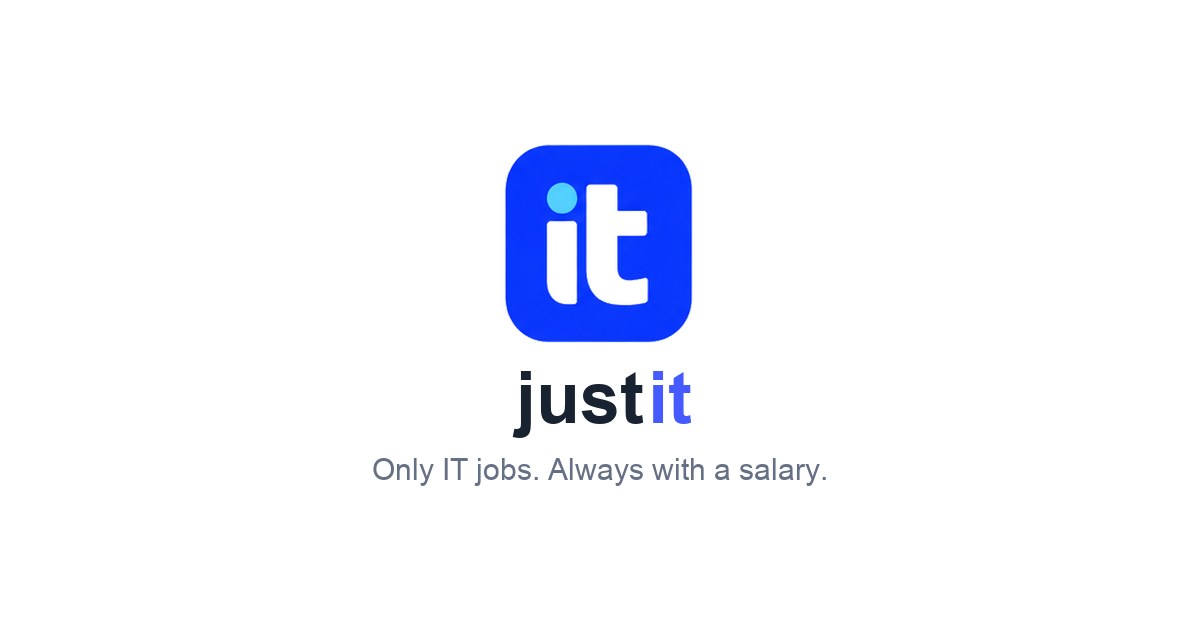
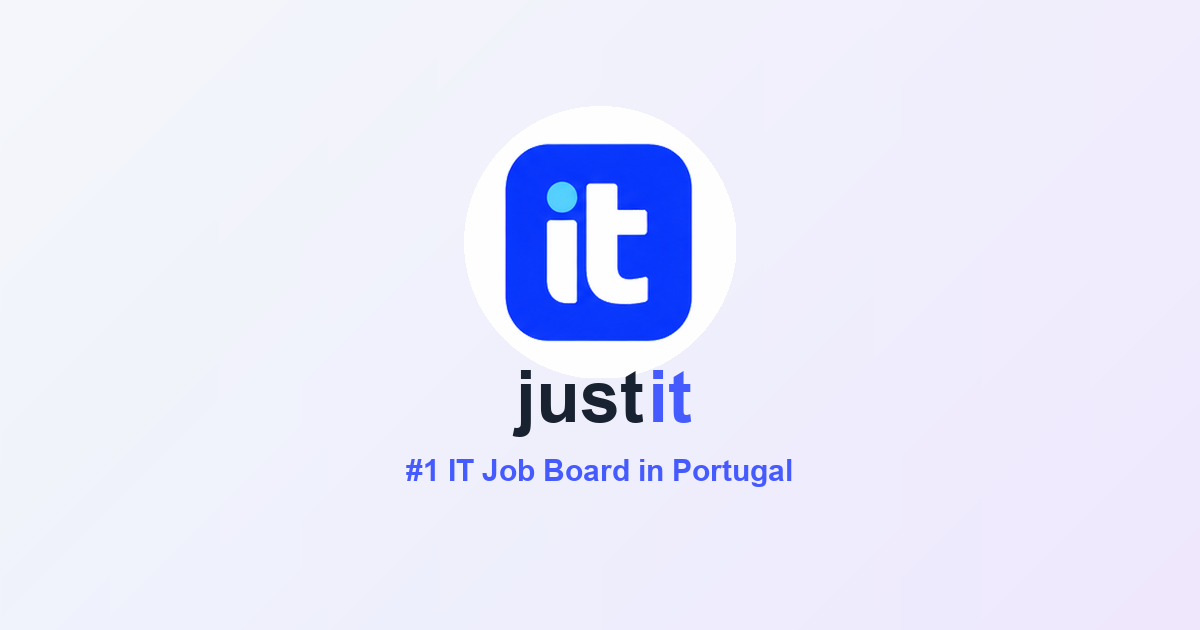
Fix share description length + give the OG image real polish
LinkedIn's Post Inspector flagged the share description as too short
(its own stated minimum is 100 characters; the old brand.tagline was
36, and navTagline — reused as a stopgap — only 28). New dedicated
brand.shareDescription key, a real sentence long enough to clear that
bar, used by both the root layout's and /jobs page's metadata.
navTagline keeps doing its own job as the short line under the
TopNav wordmark; tagline itself had no callers left and is removed.

Also gave og-image.png actual visual polish instead of flat white: a
soft diagonal pine/mint gradient background and a white halo behind
the icon mark, still fully inside the square-safe center (re-verified
by simulating the crop again before shipping).

diff --git a/src/app/[locale]/layout.tsx b/src/app/[locale]/layout.tsx
@@ -82,7 +82,17 @@ export async function generateMetadata({
   const { locale } = await params;
   const t = await getTranslations({ locale, namespace: "brand" });
   const name = t("name");
-  const description = t("tagline");
+  // Real-usage report: a link shared in WhatsApp/Teams/iMessage showed
+  // "Only IT jobs. Always with a salary." as its preview message — real,
+  // on-brand copy, but not the message wanted for a share card, and
+  // LinkedIn's own Post Inspector separately flagged it as too short
+  // (its stated minimum is 100 characters; the old `tagline` was 36).
+  // `shareDescription` is a new, dedicated key — long enough to read as a
+  // real sentence, not a label — kept distinct from `navTagline`, which
+  // still does its own real job as the short line under the wordmark in
+  // TopNav, where this much longer sentence wouldn't fit. `tagline`
+  // itself is gone — this was its only remaining caller.
+  const description = t("shareDescription");
   return {
     title: { default: name, template: `%s · ${name}` },
     description,

diff --git a/src/app/[locale]/(candidate)/jobs/page.tsx b/src/app/[locale]/(candidate)/jobs/page.tsx
@@ -20,7 +20,8 @@ export async function generateMetadata({ params }: Props): Promise<Metadata> {
   const t = await getTranslations({ locale, namespace: "jobs" });
   const tb = await getTranslations({ locale, namespace: "brand" });
   const title = t("title");
-  const description = tb("tagline");
+  // Same fix as the root layout's metadata — see its own comment.
+  const description = tb("shareDescription");
   return {
     title,
     description,
